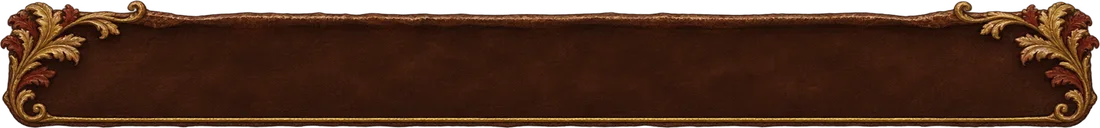
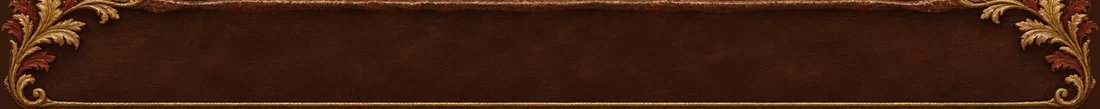
fix: Würfelbrett mit transparenten Ecken, Lederleiste ohne Randstreifen
Die schwarzen Ecken außerhalb des abgerundeten Holzrahmens sind jetzt durchsichtig; dahinter liegt oben das Leder der Kopfleiste, unten das Pergament. Die Kopfleiste ist auf ihr deckendes Lederband beschnitten, so dass über und neben den Ranken kein dunkler Streifen mehr steht.

Claude-Session: https://claude.ai/code/session_01F44v72FaiMusEPvmgqxMox

Changed region(s): [[0.0, 0.0, 1.0, 1.0]]

diff --git a/src/lib/components/battleMap/DiceTray.svelte b/src/lib/components/battleMap/DiceTray.svelte
@@ -173,7 +173,7 @@
     align-items: center;
     gap: 0.2rem;
     padding: 0.45rem 0.9rem 0.5rem 1.6rem;
-    background: url('/branding/dice/header.webp') center / 100% 100% no-repeat, linear-gradient(#4a2e1c, #2e1b10);
+    background: url('/branding/dice/header.webp') center / 100% 100% no-repeat #331a0d;
     cursor: move;
     user-select: none;
     touch-action: none;
@@ -201,7 +201,7 @@
     min-height: 7.5rem;
     padding: 0.3rem;
     text-align: center;
-    background: #6e1410;
+    background: linear-gradient(#331a0d 50%, var(--bg-panel) 50%);
     border: 12px solid #5a3a1e;
     border-image: url('/branding/dice/tray.webp') 32 fill / 12px stretch;
   }
